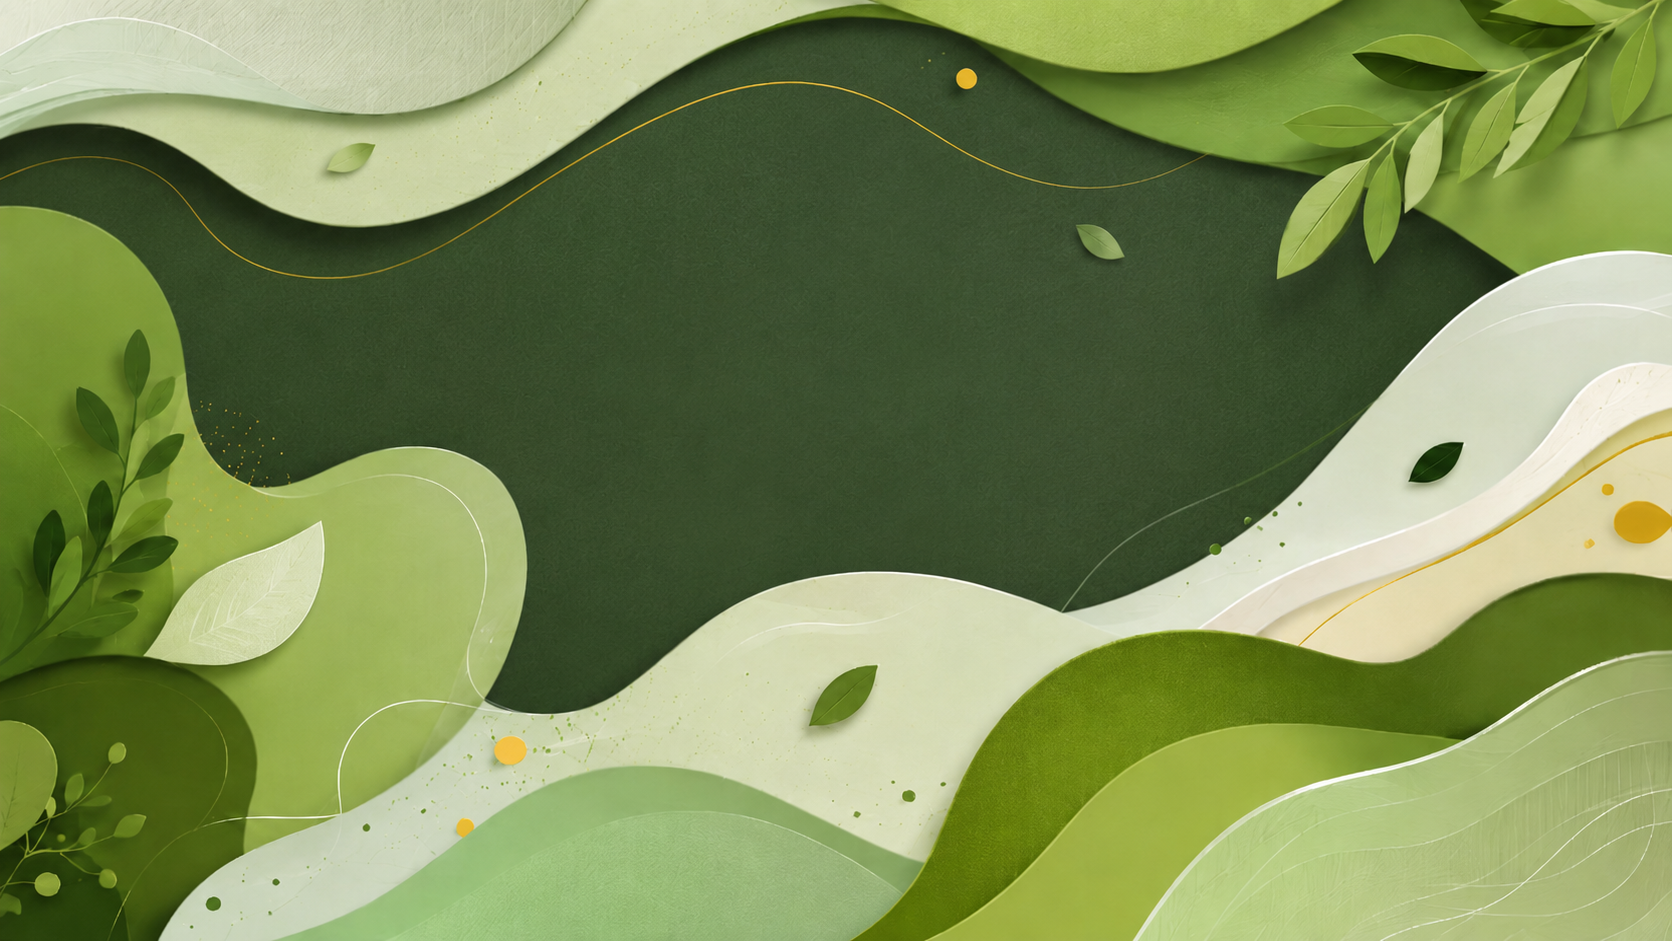
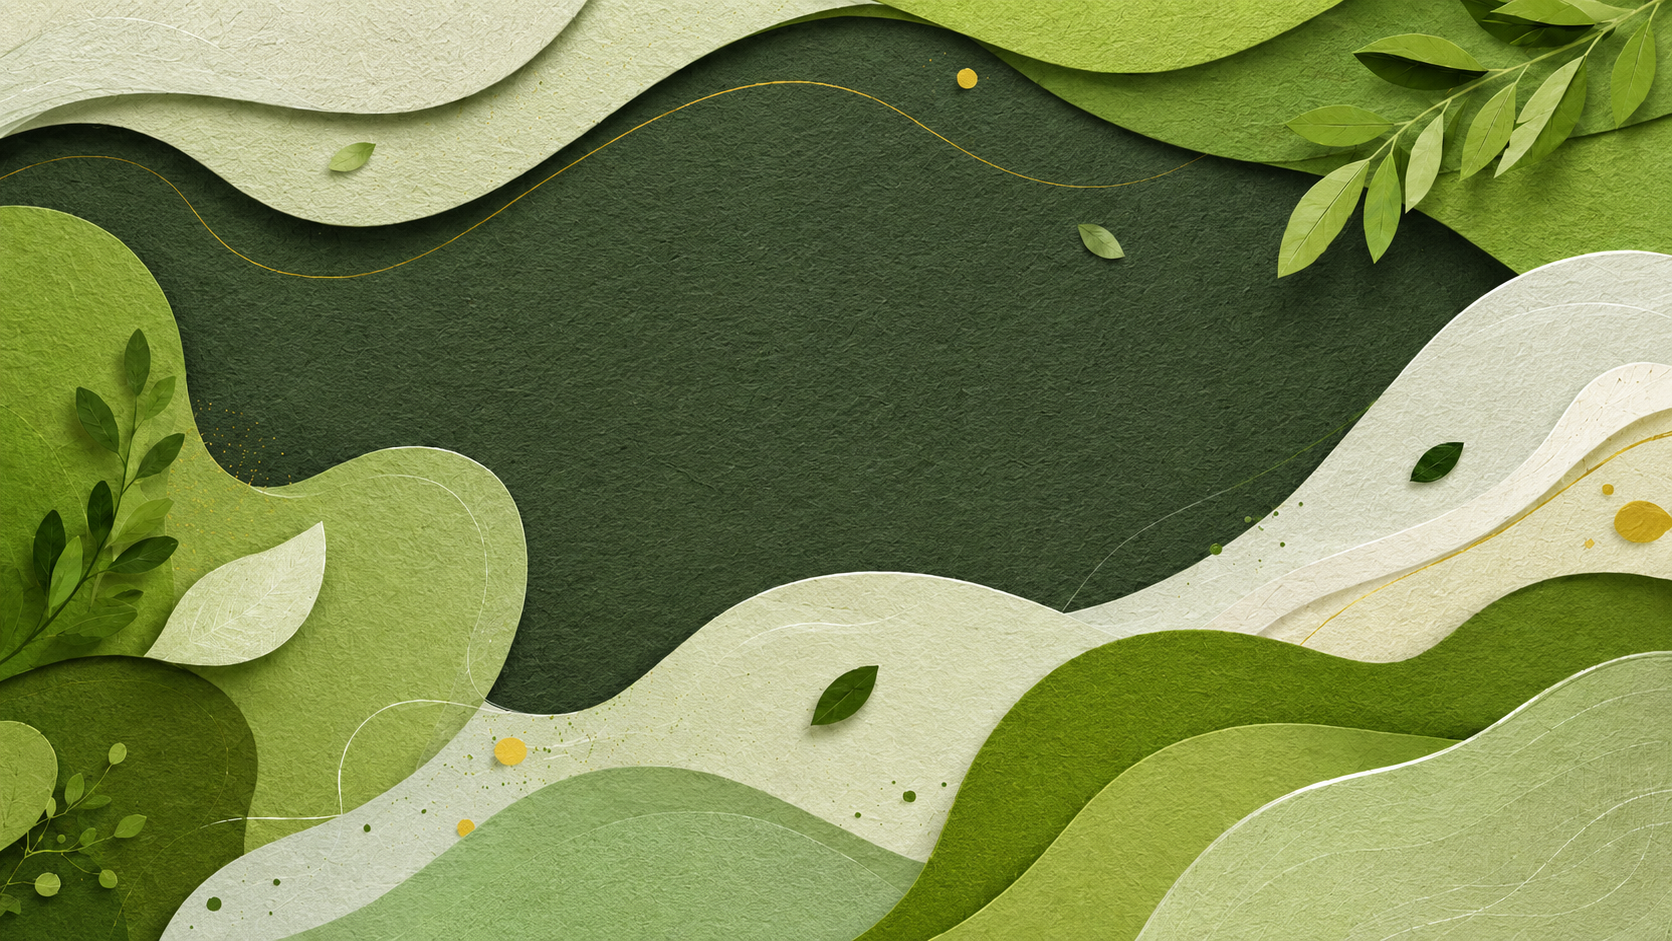
chore: незначительные изменения

diff --git a/src/features/meal-planner/ui/MealPlannerCalendar/index.jsx b/src/features/meal-planner/ui/MealPlannerCalendar/index.jsx
@@ -7,8 +7,8 @@ const columnTemplate = {
 
 const MealPlannerCalendar = ({ days, rows, onAddMeal, onRemoveMeal }) => {
   return (
-    <div className="w-full max-w-5xl pb-6 overflow-x-auto">
-      <div className="space-y-3 min-w-[280px]">
+    <div className="w-full max-w-5xl overflow-x-auto pb-6">
+      <div className="min-w-[280px] space-y-3">
         <div className="grid gap-3" style={columnTemplate}>
           {/* <div /> */}
           {days.map((day) => (
@@ -16,8 +16,8 @@ const MealPlannerCalendar = ({ days, rows, onAddMeal, onRemoveMeal }) => {
               key={day.label}
               className={
                 day.active
-                  ? 'flex min-h-12 items-center justify-center rounded-2xl border border-secondary/10 bg-secondary/5 px-4 py-2 text-sm font-medium text-secondary'
-                  : 'flex min-h-12 items-center justify-center px-4 py-2 text-sm font-medium'
+                  ? 'border-secosndary/10 bg-secondary/5 text-secondary flex min-h-12 items-center justify-center rounded-2xl border px-4 py-2 text-sm font-medium'
+                  : 'min-h-12 flex items-center justify-center px-4 py-2 text-sm font-medium'
               }
             >
               {day.label}
